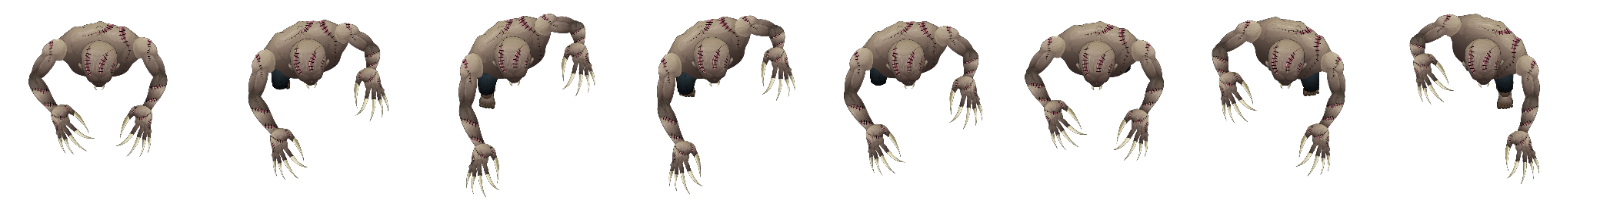
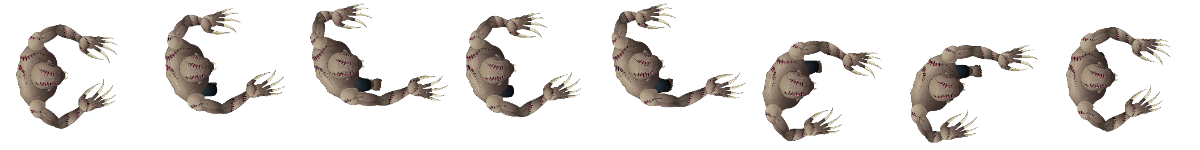
monsters in progress #3

diff --git a/src/game/scenes/LoadScene.ts b/src/game/scenes/LoadScene.ts
@@ -10,10 +10,22 @@ export enum EImage {
   Zombie1 = 'zombie1',
   Zombie1Move = 'a-zombie1-move',
   Zombie1Attack = 'a-zombie1-attack',
-  Monster1 = 'monster1',
-  Monster1Move = 'monster1-move',
-  Monster1Attack = 'monster1-attack',
-  Monster1Death = 'monster1-death',
+  Monster11 = 'monster11',
+  Monster11Move = 'monster11-move',
+  Monster11Attack = 'monster11-attack',
+  Monster11Death = 'monster11-death',
+  Monster12 = 'monster12',
+  Monster12Move = 'monster12-move',
+  Monster12Attack = 'monster12-attack',
+  Monster12Death = 'monster12-death',
+  Monster21 = 'monster21',
+  Monster21Move = 'monster21-move',
+  Monster21Attack = 'monster21-attack',
+  Monster21Death = 'monster21-death',
+  Monster22 = 'monster22',
+  Monster22Move = 'monster22-move',
+  Monster22Attack = 'monster22-attack',
+  Monster22Death = 'monster22-death',
   ShadowBg = 'shadow-bg',
   ButtonBg = 'button-bg',
   Bullet = 'bullet',
@@ -85,9 +97,20 @@ export default class LoadingScene extends Scene {
     this.load.atlas(EImage.Zombie1Move, 'enemies/zombie1/move.png', 'enemies/zombie1/zombie1-atlas.json');
     this.load.atlas(EImage.Zombie1Attack, 'enemies/zombie1/attack.png', 'enemies/zombie1/zombie1-atlas.json');
     this.load.image(EImage.PlayerFire, 'player/gun-fire_small.png');
-    this.load.spritesheet(EImage.Monster1Move, 'enemies/monsters/monster1.1-move.png', { frameWidth: 150, frameHeight: 150 });
-    this.load.spritesheet(EImage.Monster1Attack, 'enemies/monsters/monster1.1-attack-1.png', { frameWidth: 225, frameHeight: 225 });
-    this.load.spritesheet(EImage.Monster1Death, 'enemies/monsters/monster1.1-death.png', { frameWidth: 225, frameHeight: 150 });
+    this.load.spritesheet(EImage.Monster11Move, 'enemies/monsters/monster1.1-move.png', { frameWidth: 150, frameHeight: 150 });
+    this.load.spritesheet(EImage.Monster11Attack, 'enemies/monsters/monster1.1-attack-1.png', { frameWidth: 225, frameHeight: 225 });
+    this.load.spritesheet(EImage.Monster11Death, 'enemies/monsters/monster1.1-death.png', { frameWidth: 225, frameHeight: 150 });
+    this.load.spritesheet(EImage.Monster12Move, 'enemies/monsters/monster1.2-move.png', { frameWidth: 150, frameHeight: 150 });
+    this.load.spritesheet(EImage.Monster12Attack, 'enemies/monsters/monster1.2-attack-1.png', { frameWidth: 225, frameHeight: 150 });
+    this.load.spritesheet(EImage.Monster12Death, 'enemies/monsters/monster1.2-death.png', { frameWidth: 225, frameHeight: 150 });
+
+    this.load.spritesheet(EImage.Monster21Move, 'enemies/monsters/monster2.1-move.png', { frameWidth: 150, frameHeight: 150 });
+    this.load.spritesheet(EImage.Monster21Attack, 'enemies/monsters/monster2.1-attack-1.png', { frameWidth: 225, frameHeight: 225 });
+    this.load.spritesheet(EImage.Monster21Death, 'enemies/monsters/monster2.1-death.png', { frameWidth: 225, frameHeight: 150 });
+
+    this.load.spritesheet(EImage.Monster22Move, 'enemies/monsters/monster2.2-move.png', { frameWidth: 150, frameHeight: 150 });
+    this.load.spritesheet(EImage.Monster22Attack, 'enemies/monsters/monster2.2-attack-1.png', { frameWidth: 150, frameHeight: 150 });
+    this.load.spritesheet(EImage.Monster22Death, 'enemies/monsters/monster2.2-death.png', { frameWidth: 225, frameHeight: 150 });
 
     // Map
     this.load.image('tilesheet', 'map/tile_sheet/metal_100_2.png');
@@ -133,7 +156,7 @@ export default class LoadingScene extends Scene {
         prefix: `zombie1-move-`,
         end: 15,
       }),
-      frameRate: 8,
+      frameRate: 10,
     });
 
     this.anims.create({
@@ -147,17 +170,17 @@ export default class LoadingScene extends Scene {
     });
 
     this.anims.create({
-      key: EImage.Monster1Death,
-      frames: this.anims.generateFrameNames(EImage.Monster1Death, {
+      key: EImage.Monster11Death,
+      frames: this.anims.generateFrameNames(EImage.Monster11Death, {
         end: 5,
         start: 0,
       }),
-      frameRate: 5,
+      frameRate: 10,
     });
 
     this.anims.create({
-      key: EImage.Monster1Move,
-      frames: this.anims.generateFrameNames(EImage.Monster1Move, {
+      key: EImage.Monster11Move,
+      frames: this.anims.generateFrameNames(EImage.Monster11Move, {
         end: 8,
         start: 0,
       }),
@@ -165,12 +188,95 @@ export default class LoadingScene extends Scene {
     });
 
     this.anims.create({
-      key: EImage.Monster1Attack,
-      frames: this.anims.generateFrameNames(EImage.Monster1Attack, {
+      key: EImage.Monster11Attack,
+      frames: this.anims.generateFrameNames(EImage.Monster11Attack, {
         end: 5,
         start: 0,
       }),
       frameRate: 6,
+    });
+
+    this.anims.create({
+      key: EImage.Monster12Death,
+      frames: this.anims.generateFrameNames(EImage.Monster12Death, {
+        end: 5,
+        start: 0,
+      }),
+      frameRate: 10,
+    });
+
+    this.anims.create({
+      key: EImage.Monster12Move,
+      frames: this.anims.generateFrameNames(EImage.Monster12Move, {
+        end: 8,
+        start: 0,
+      }),
+      frameRate: 8,
+    });
+
+    this.anims.create({
+      key: EImage.Monster12Attack,
+      frames: this.anims.generateFrameNames(EImage.Monster12Attack, {
+        end: 5,
+        start: 0,
+      }),
+      frameRate: 6,
+    });
+
+
+    this.anims.create({
+      key: EImage.Monster21Death,
+      frames: this.anims.generateFrameNames(EImage.Monster21Death, {
+        end: 8,
+        start: 0,
+      }),
+      frameRate: 10,
+    });
+
+    this.anims.create({
+      key: EImage.Monster21Move,
+      frames: this.anims.generateFrameNames(EImage.Monster21Move, {
+        end: 7,
+        start: 0,
+      }),
+      frameRate: 5,
+    });
+
+    this.anims.create({
+      key: EImage.Monster21Attack,
+      frames: this.anims.generateFrameNames(EImage.Monster21Attack, {
+        end: 9,
+        start: 0,
+      }),
+      frameRate: 10,
+    });
+
+
+    this.anims.create({
+      key: EImage.Monster22Death,
+      frames: this.anims.generateFrameNames(EImage.Monster22Death, {
+        end: 7,
+        start: 0,
+      }),
+      frameRate: 10,
+    });
+
+    this.anims.create({
+      key: EImage.Monster22Move,
+      frames: this.anims.generateFrameNames(EImage.Monster22Move, {
+        end: 7,
+        start: 0,
+      }),
+      frameRate: 5,
+    });
+
+    this.anims.create({
+      key: EImage.Monster22Attack,
+      frames: this.anims.generateFrameNames(EImage.Monster22Attack, {
+        end: 6,
+        start: 0,
+      }),
+      frameRate: 3,
     });
   }
 }

diff --git a/src/game/classes/Enemy.ts b/src/game/classes/Enemy.ts
@@ -48,13 +48,17 @@ export class Enemy extends Actor {
     this.on(this.onKillEvent, () => {
       this.texts.forEach((t) => t?.destroy());
       this.deathSound.play();
-      this.anims.play({ key: `${texture}-death`, frameRate: 10 }, true);
+      this.anims.play({ key: `${texture}-death` }, true);
       this.scene.game.events.emit(GameEvents.CreateRuby, this.body.x, this.body.y);
       this.scene.game.events.emit(GameEvents.AddScore, 10 + wave + (level * 10));
 
       setTimeout(() => {
         this.destroy();
       }, 3000)
+    });
+
+    this.on(Phaser.Scenes.Events.DESTROY, () => {
+      this.texts.forEach((t) => t?.destroy());
     });
 
     this.init();
@@ -82,7 +86,7 @@ export class Enemy extends Actor {
   }
 
   private attackHandler(): void {
-    this.anims.play({ key: `${this.textureName}-attack`, frameRate: 10 }, true);
+    this.anims.play({ key: `${this.textureName}-attack` }, true);
     this.target.getDamage(this.damage);
   }
 
@@ -91,7 +95,8 @@ export class Enemy extends Actor {
       this.target.x > this.x ? this.speed : -this.speed,
       this.target.y > this.y ? this.speed : -this.speed,
     );
-    !this.anims.isPlaying && this.anims.play({ key: `${this.textureName}-move`, frameRate: Math.RoundTo(this.speed / 5, 0) }, true);
+
+    !this.anims.isPlaying && this.anims.play({ key: `${this.textureName}-move` }, true);
   }
 
   public update(_: number, delta: number): void {

diff --git a/src/game/scenes/EnemyScene.ts b/src/game/scenes/EnemyScene.ts
@@ -49,11 +49,20 @@ export default class EnemyScene extends Scene {
       .setName(`Zombie-#${Phaser.Math.RND.between(0, 99999)}`)
   }
 
+  private getRandomMonster = (level: 1 | 2 | 3) => {
+    const monsters = {
+      [1]: [EImage.Monster11, EImage.Monster12],
+      [2]: [EImage.Monster21, EImage.Monster22],
+      [3]: [EImage.Monster11, EImage.Monster12],
+    }
+    return monsters[level][Phaser.Math.RND.between(0, monsters[level].length - 1)];
+  }
+
   private createMonsterFn = (coordinates: { x: number, y: number }) => {
     // Portal
     const wave = this.mainScene.wave;
     const enemyLevel = wave <= 5 ? 1 : Phaser.Math.RND.between(1, wave >= 10 ? 3 : 2);
-    const texture = enemyLevel === 3 ? EImage.Monster1 : EImage.Monster1; // todo image
+    const texture = this.getRandomMonster(enemyLevel as 1 | 2 | 3);
     return () => new Enemy(this.mapScene, coordinates.x, coordinates.y, texture, this.mainScene.hero, EnemyType.Monster, this.mainScene.wave, enemyLevel)
       .setName(`Monster-#${Phaser.Math.RND.between(0, 99999)}`)
   }

diff --git a/src/game/config.ts b/src/game/config.ts
@@ -62,7 +62,7 @@ export default {
   },
   timeConfigs: {
     bonusDelay: 15000,
-    waveDelay: 20000,
+    waveDelay: 30000,
     enemyDelay: 3000,
   }
 }
